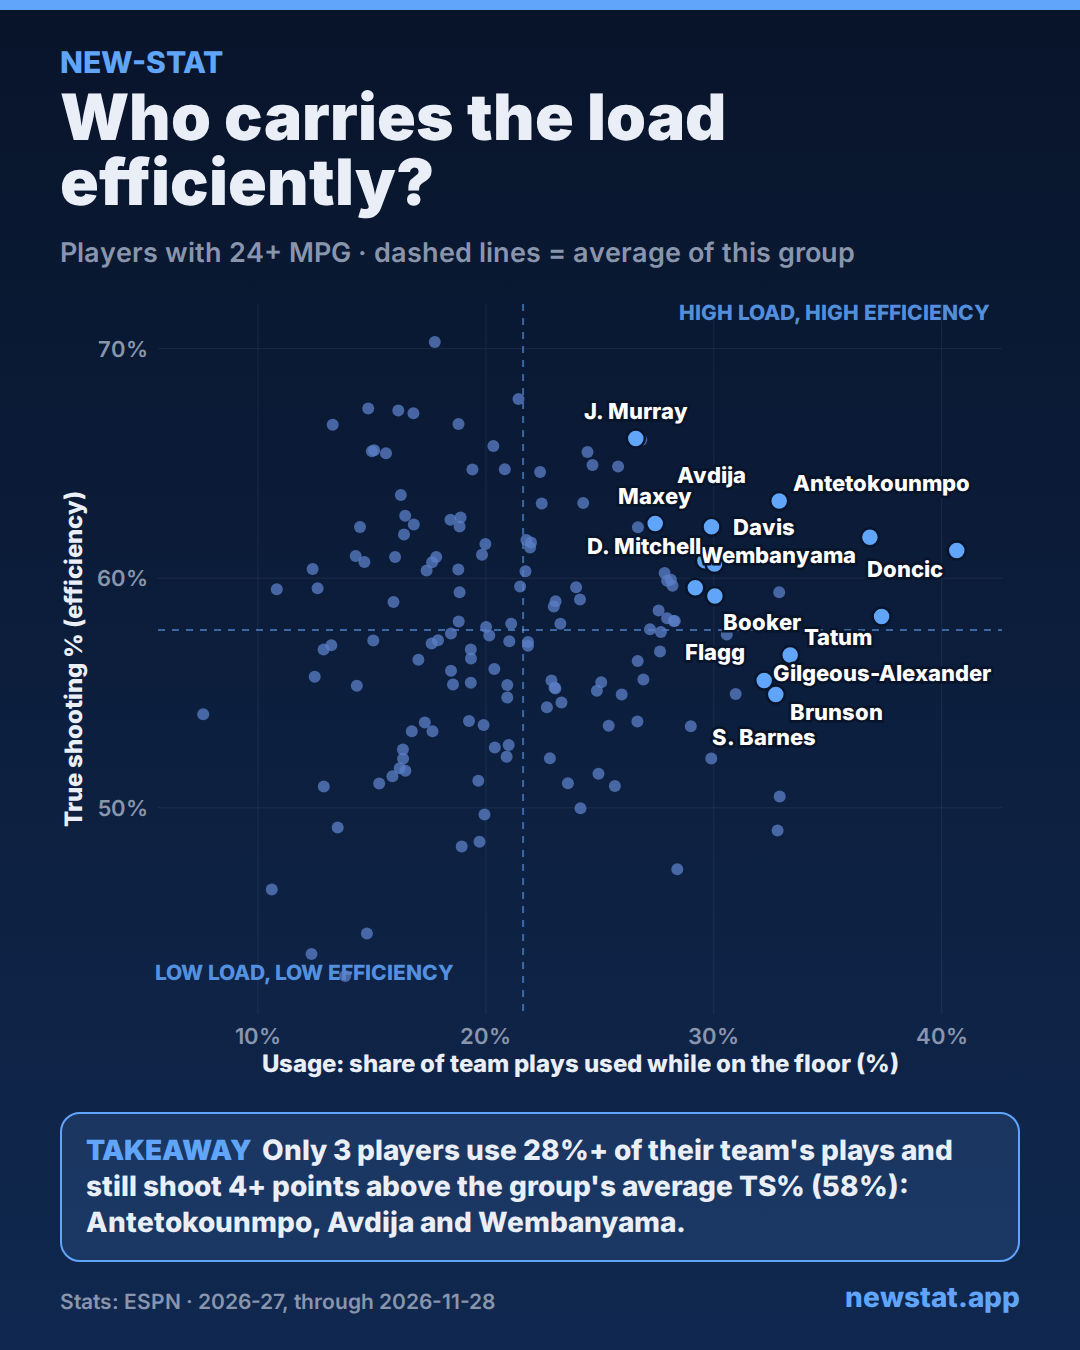
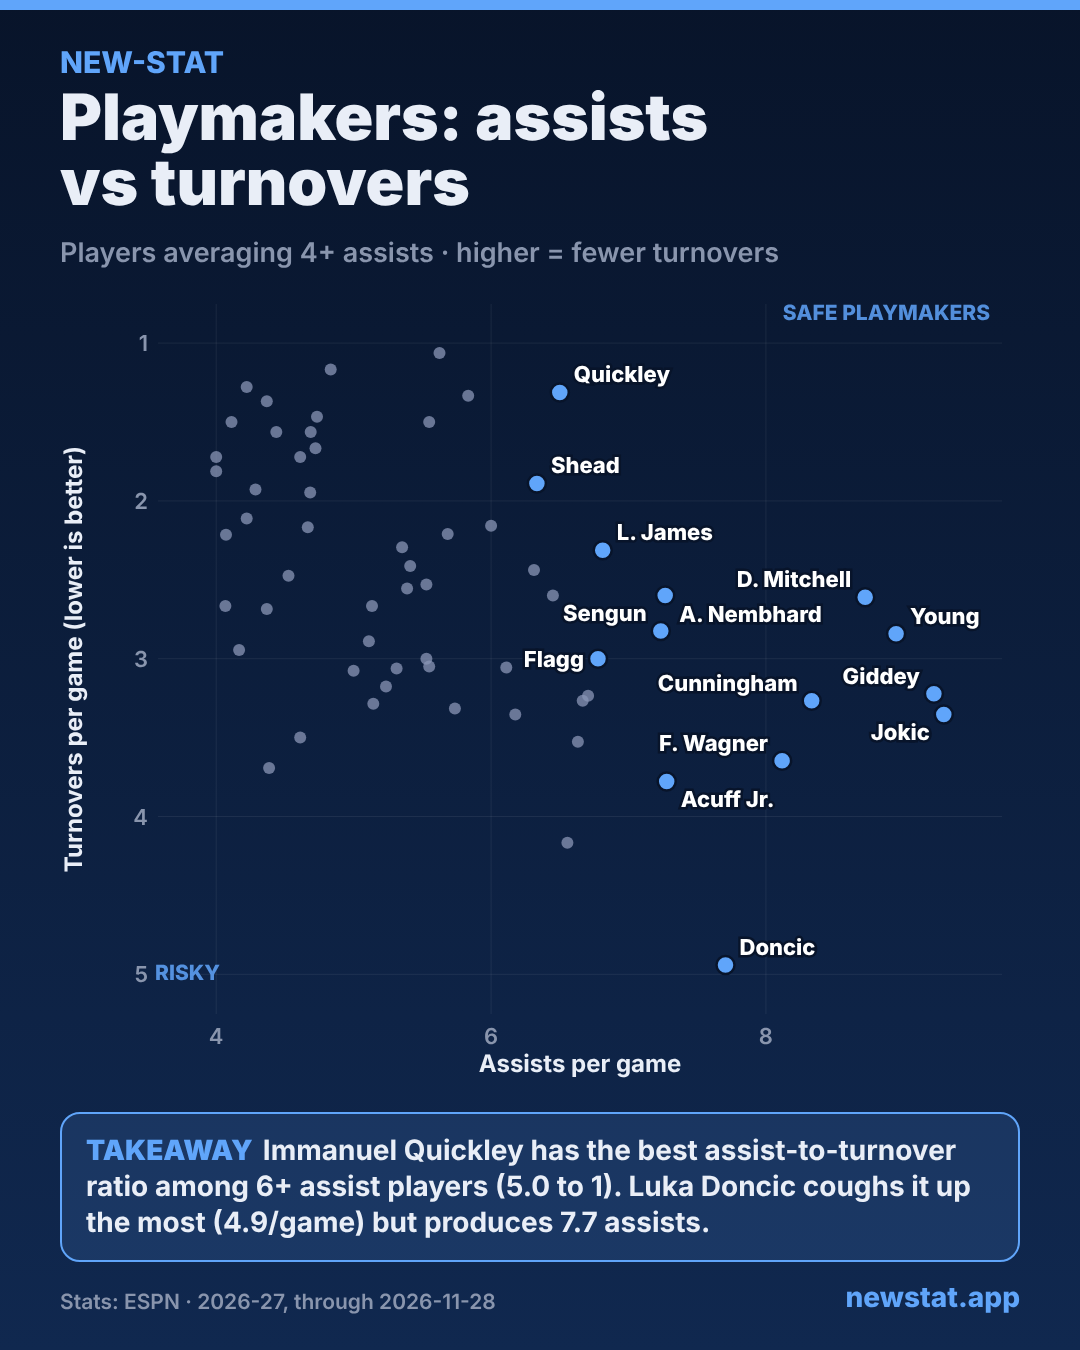
Vary chart rotation, softer dots, today's post
Claude-Session: https://claude.ai/code/session_01ULCeSyacHEJdv1tTpLNvaG

diff --git a/make_post.py b/make_post.py
@@ -156,7 +156,7 @@ def scatter_svg(pts, xt, yt, W=960, H=790, inv_y=False, hl=None, xref=None, yref
     # dots first
     for p in pts:
         if not p.get("label"):
-            o.append(f'<circle cx="{sx(p["x"]):.1f}" cy="{sy(p["y"]):.1f}" r="6" fill="#5b7fc7" fill-opacity=".75"/>')
+            o.append(f'<circle cx="{sx(p["x"]):.1f}" cy="{sy(p["y"]):.1f}" r="6" fill="#8a96b5" fill-opacity=".75"/>')
     boxes = [(sx(q["x"]) - 9, sy(q["y"]) - 9, sx(q["x"]) + 9, sy(q["y"]) + 9) for q in pts]
     def area(b):
         a = 0
@@ -458,7 +458,8 @@ def main():
     else:
         kind = ("chart", "fun", "chart", "list")[ordn % 4]
         pool = {"chart": CHARTS, "fun": FUN, "list": THEMES}[kind]
-        order = [(ordn // 4 + i) % len(pool) for i in range(len(pool))]
+        base = ordn // 2 if kind == "chart" else ordn // 4
+        order = [(base + i) % len(pool) for i in range(len(pool))]
         for idx in order:
             try:
                 r = pool[idx]()
